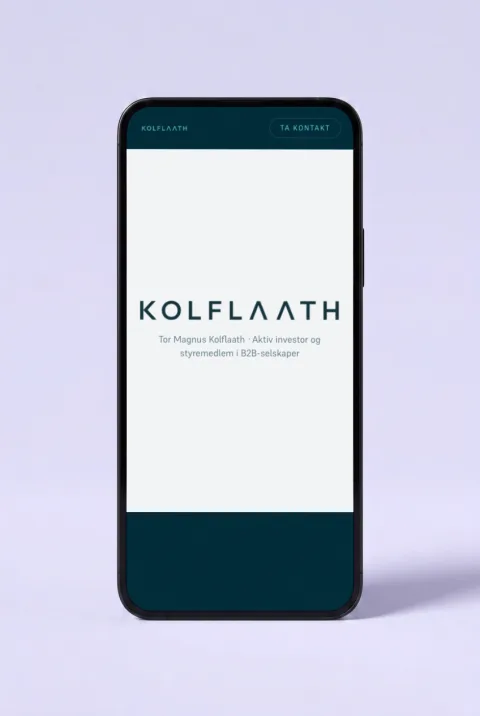
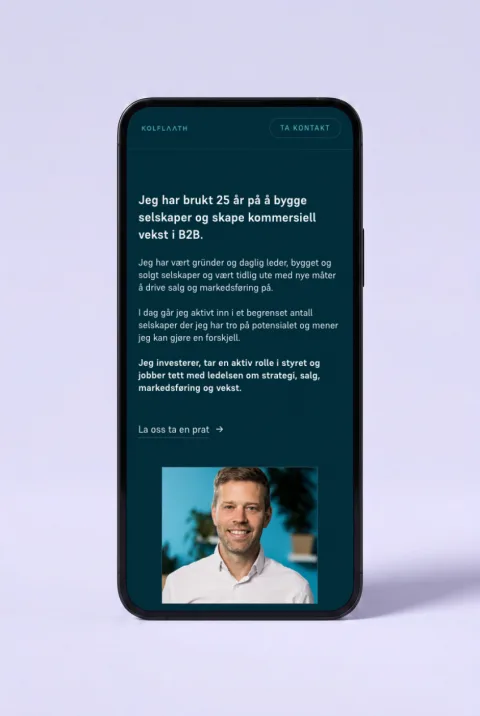
vegg: ny Kolflaath-flis, og en CSS-blokk som ga byggvarsler
Toppen av kolflaath.com er ordmerket alene på en lys flate, som ga en
nesten tom flis. Fangsten tas nå 620 px ned, der overskrift, tekst og
portrett står i samme skjerm.

.hero-vegg .vurdering flyttet til egen @media-blokk. Tailwind leser
«!vurdering» i App.jsx som en klasse og laget !important-kopier uten
velger av naboreglene, tre css-syntax-error i bygget.

Changed region(s): [[0.25, 0.1844, 0.75, 0.8603]]

diff --git a/src/index.css b/src/index.css
@@ -474,8 +474,16 @@
     .hero-vegg h1 { font-size: clamp(2.25rem, 3.6vw, 3.25rem); margin-inline: 0; max-width: none; }
     .hero-vegg h1 span { display: block; }
     .hero-vegg p, .hero-vegg .hero-bevis { margin-inline: 0; }
-    .hero-vegg .hero-handling, .hero-vegg .vurdering { justify-content: flex-start; }
+    .hero-vegg .hero-handling { justify-content: flex-start; }
     .vegg { --vegg-luft: 1.25rem; height: 100%; margin-top: 0; }
+  }
+  /* .vurdering står i sin egen blokk med vilje. `if (!vurdering)` i App.jsx
+     leses av Tailwind som klassen !vurdering, og den lager da en
+     !important-kopi av hele @media-blokken regelen står i. Sto den sammen
+     med reglene over, ble kopiene av dem stående uten velger, og bygget
+     ga tre css-syntax-error. */
+  @media (min-width: 64rem) {
+    .hero-vegg .vurdering { justify-content: flex-start; }
   }
   .vegg-kolonner {
     height: 100%;
